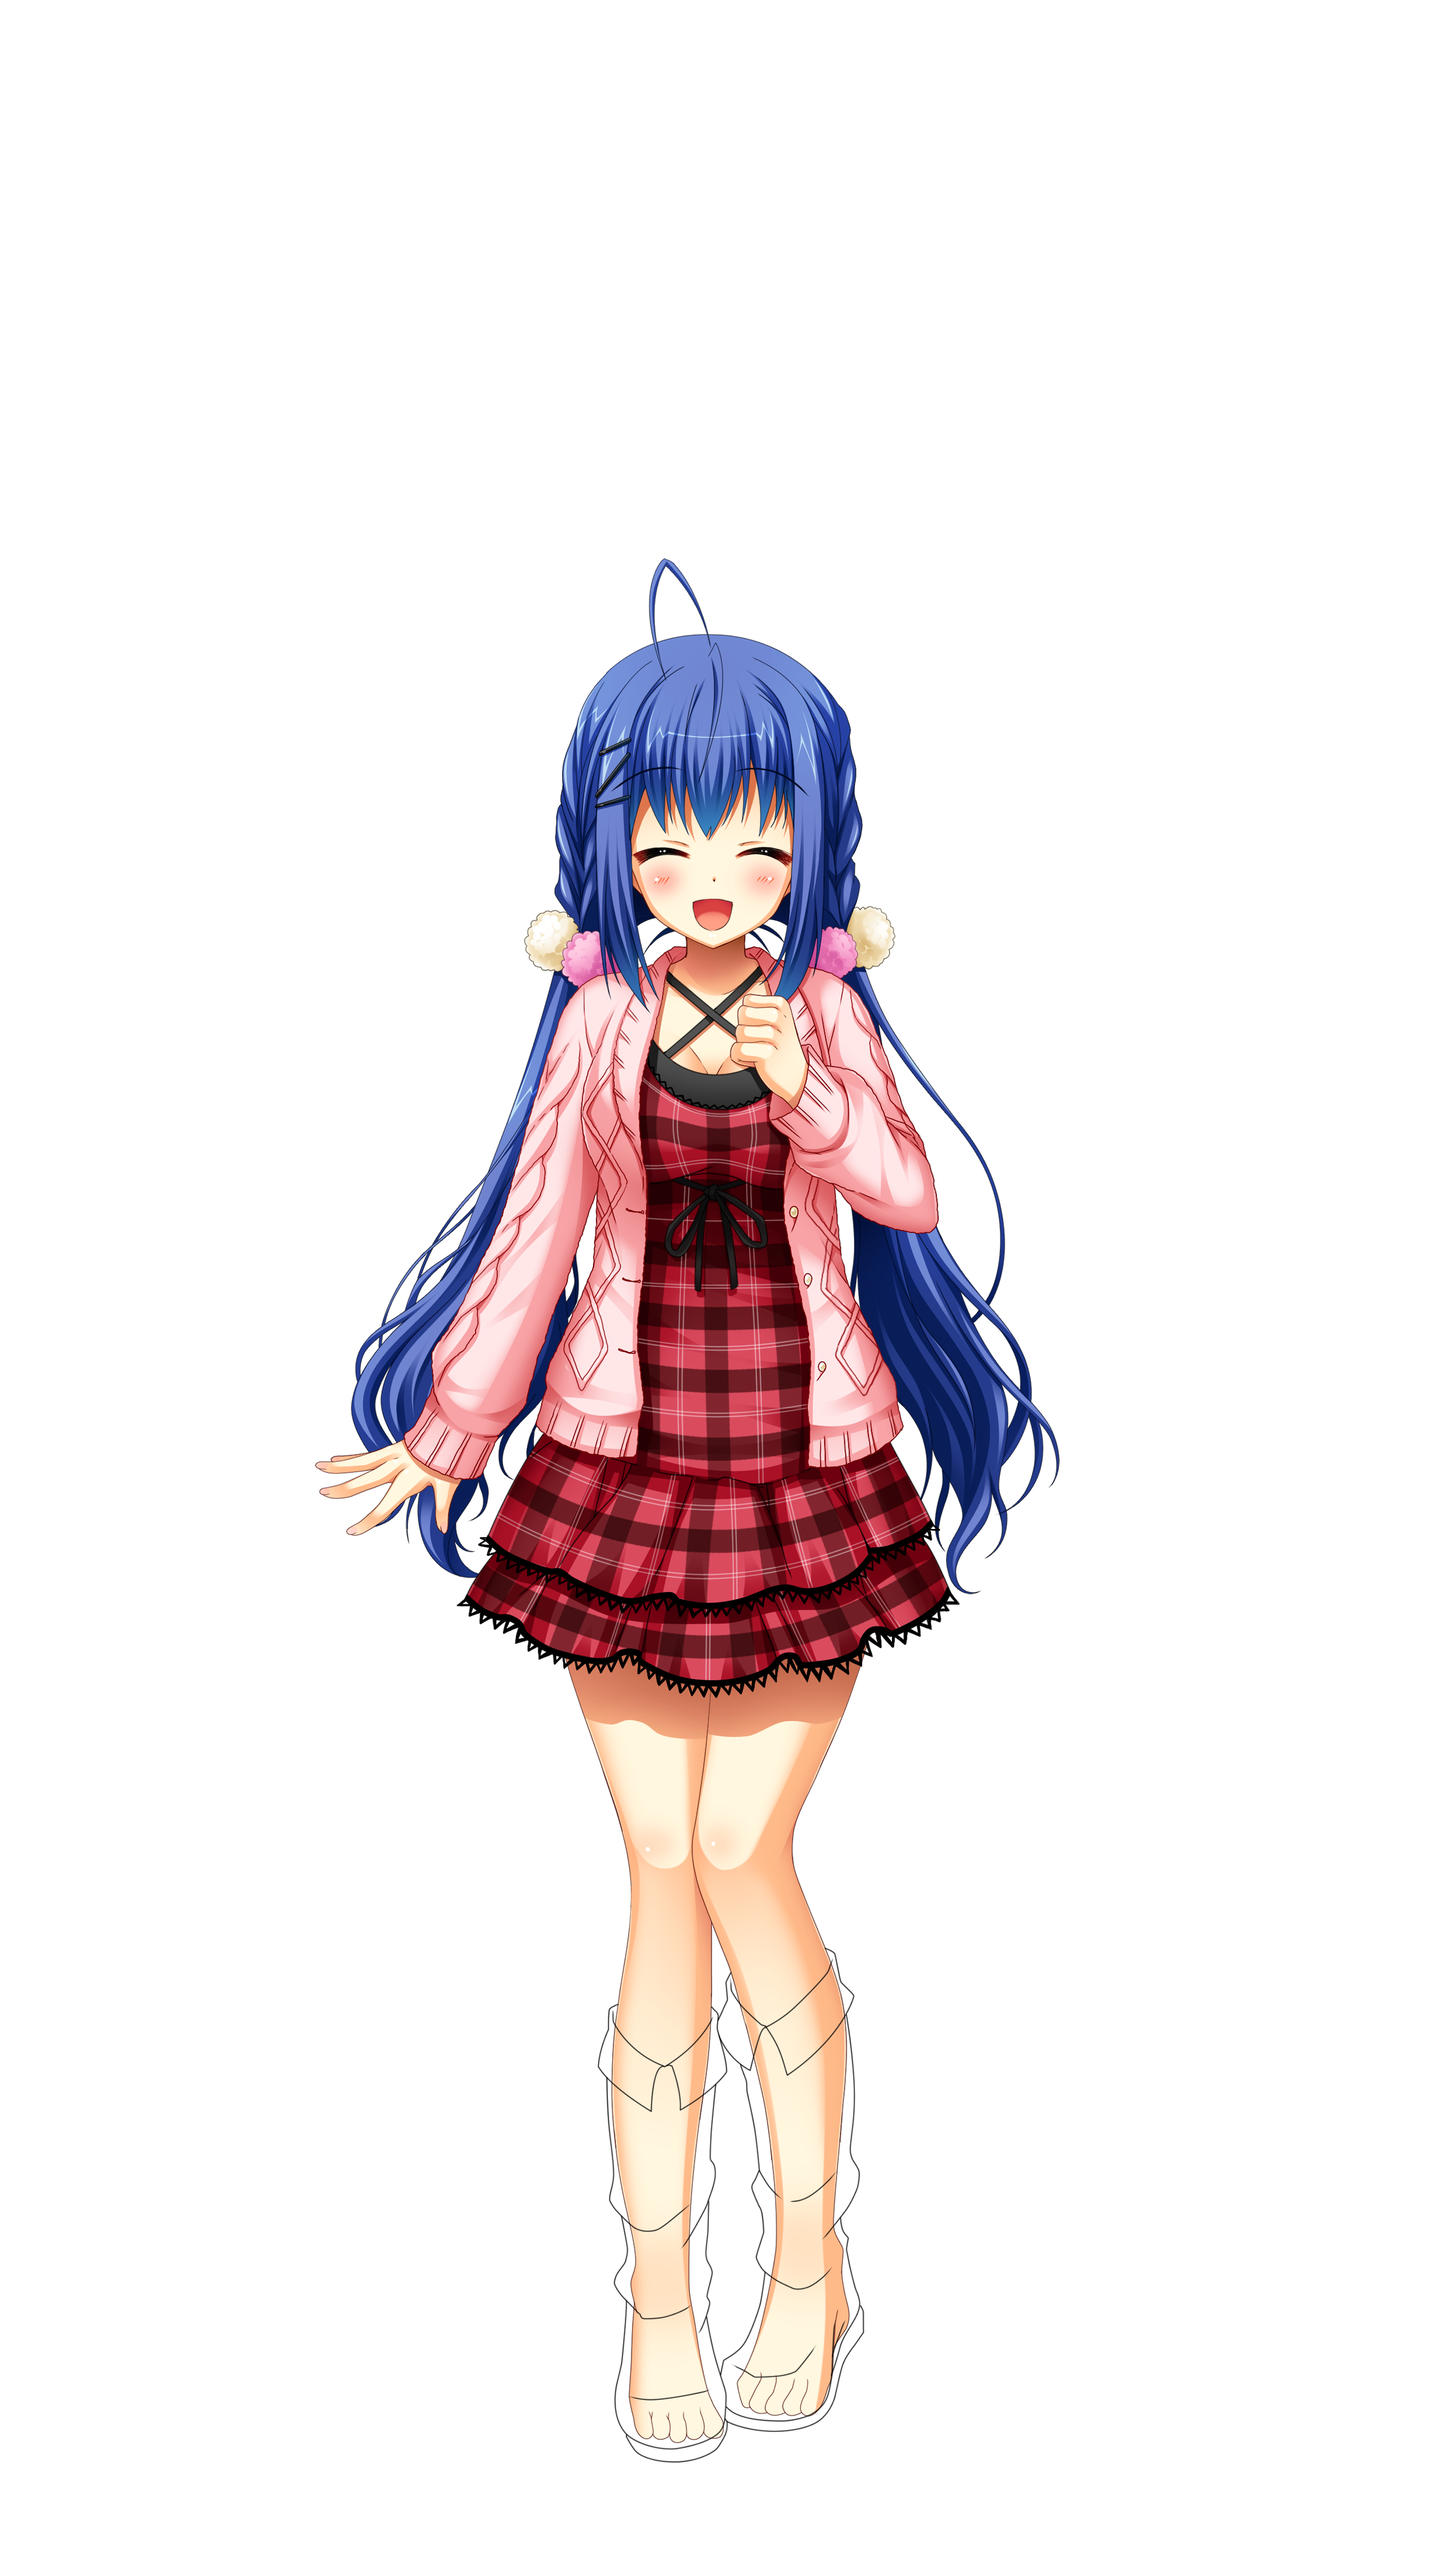
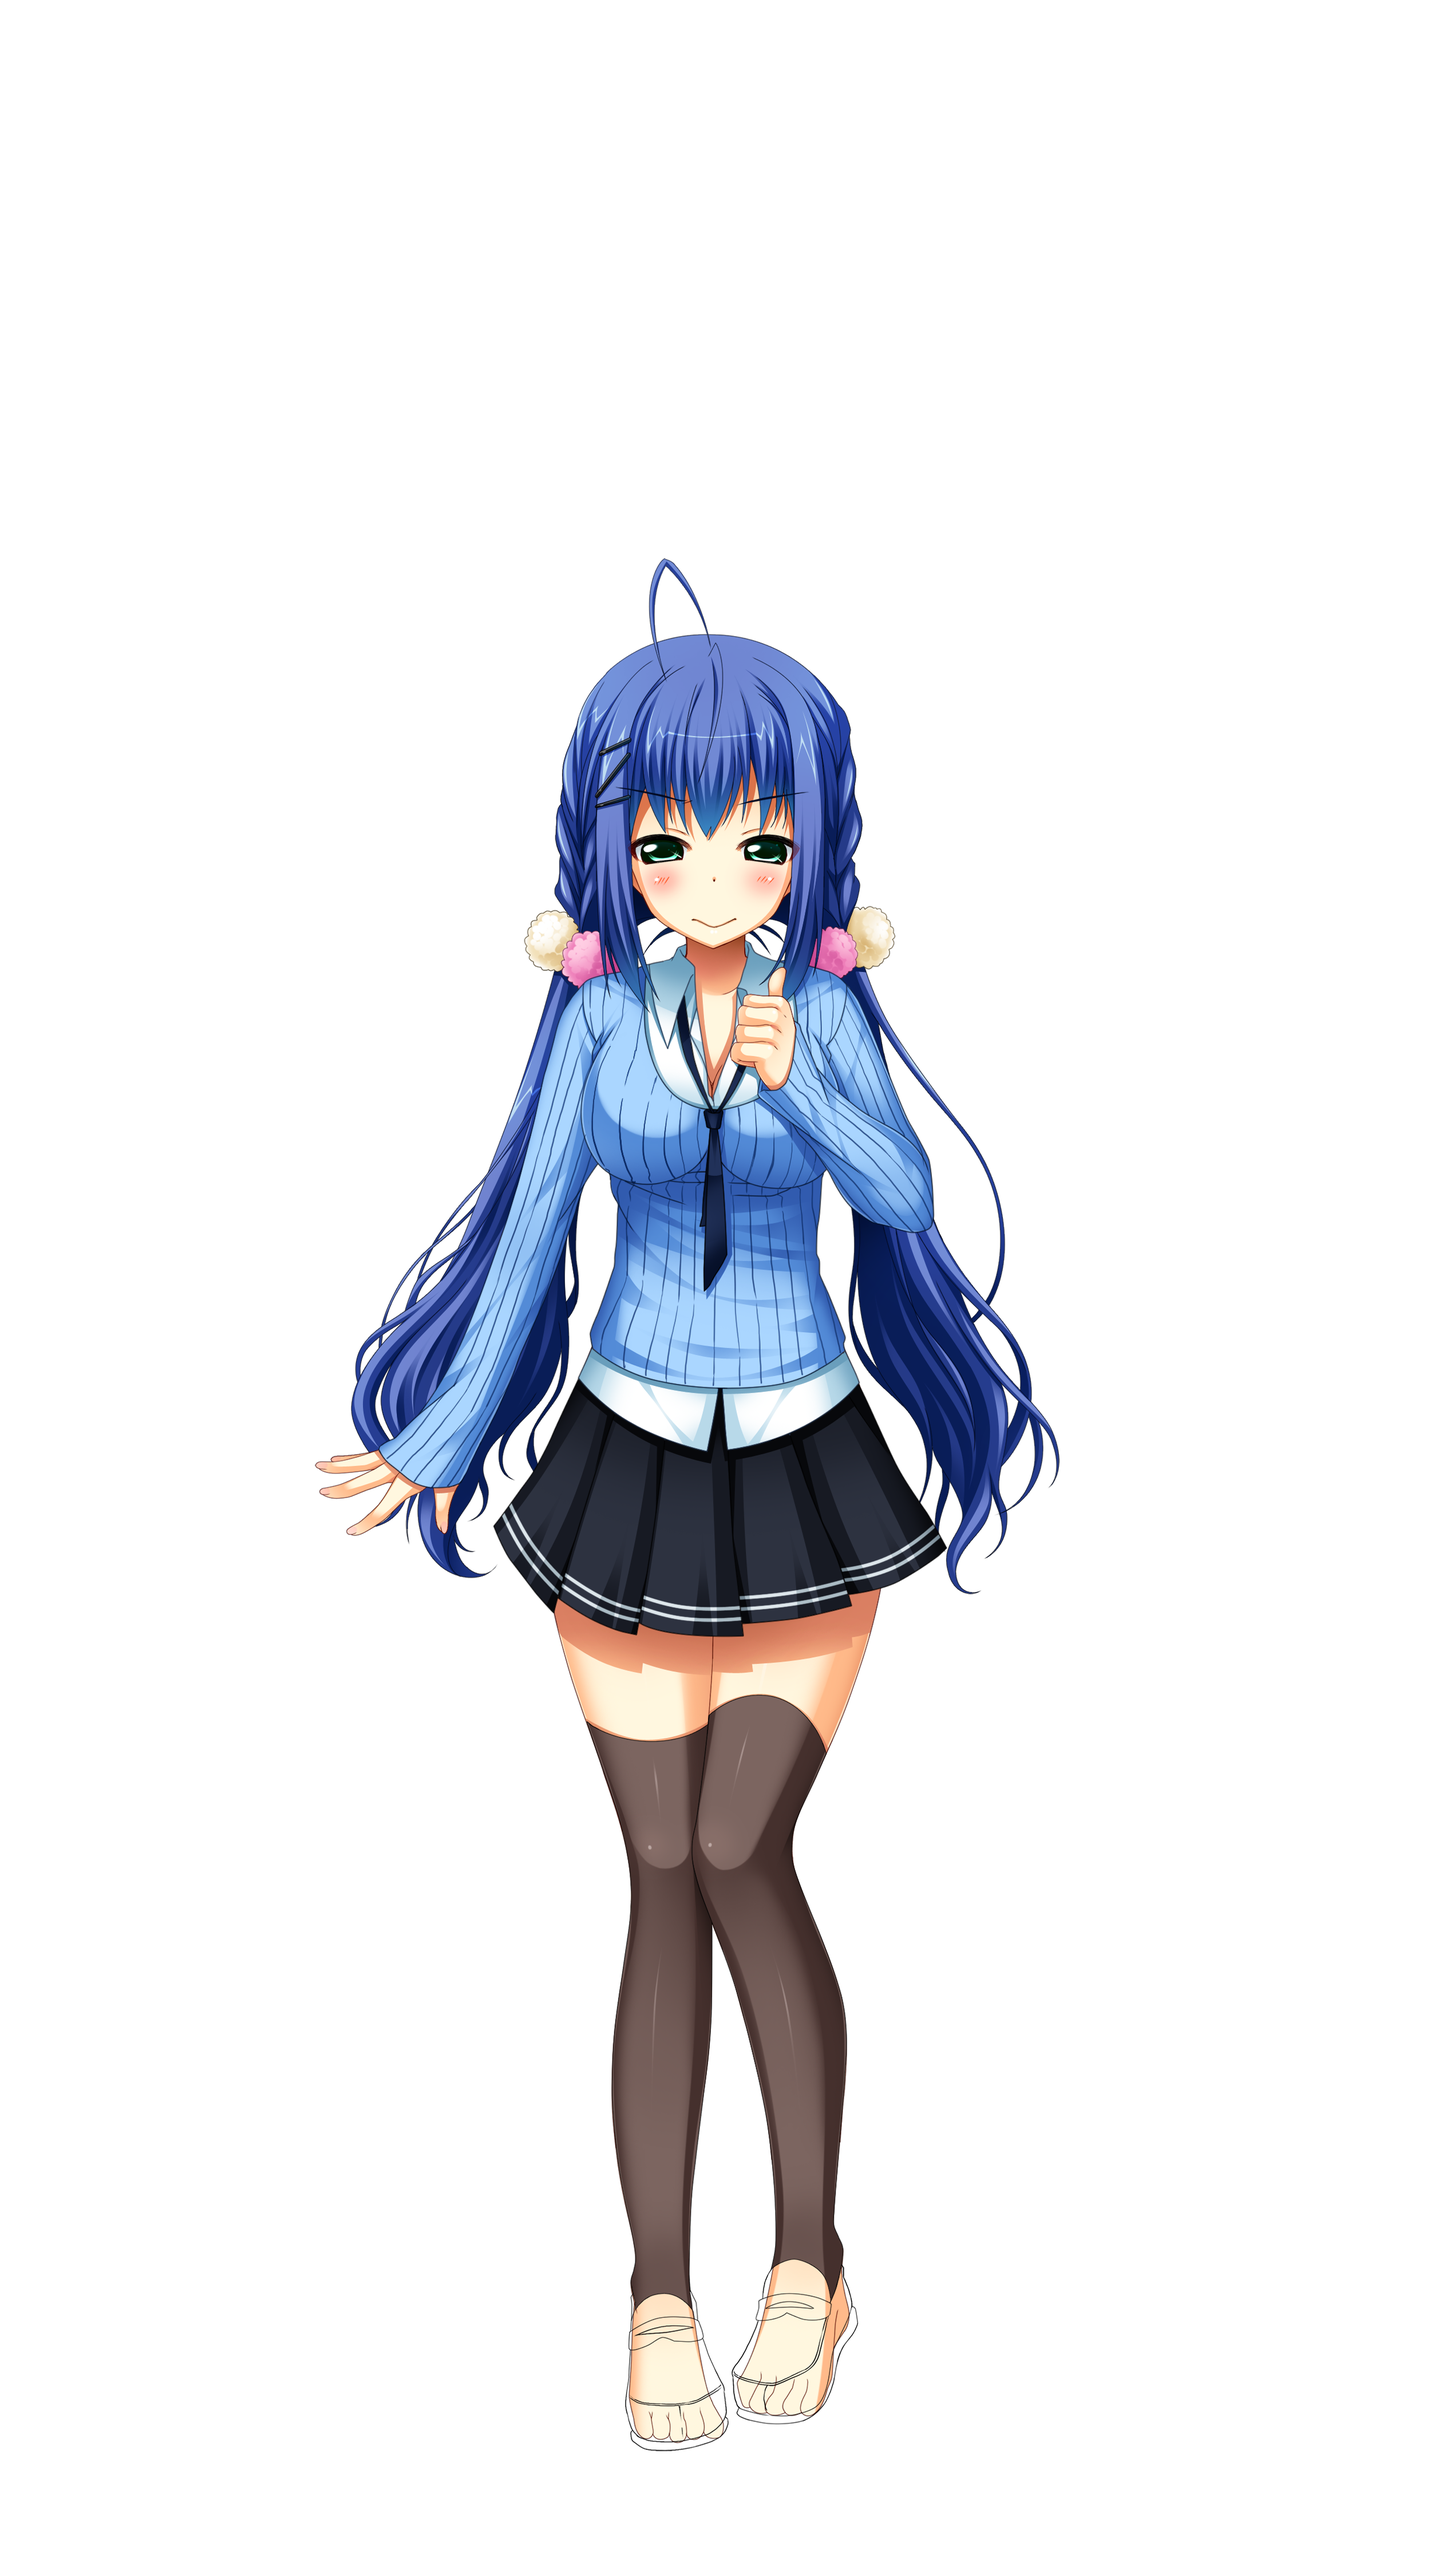
feat: add bg

Changed region(s): [[0.2496, 0.3111, 0.6864, 0.9644]]

diff --git a/main.py b/main.py
@@ -1,31 +1,52 @@
-import io
-from PIL import Image
-import random
 import requests
+from PIL import Image
+from io import BytesIO
+from dotenv import load_dotenv
+import os
+import composite_kokoron
+import composite_aisa
 
-# 输入路径
-bodyArray = [1,10,11,12,13,15,17,18,19,2,20,21,23,3,4,5,7,9]
-faceArray = list(range(1, 31))  # [1, 2, 3, ..., 30]
+load_dotenv()  # 从 .env 文件加载环境变量
 
-# 随机选择一个 body 和 face 数字
-body_id = random.choice(bodyArray)
-face_id = random.choice(faceArray)
+def paste_foreground(background, foreground, scale=1.0, offset=(0, 0)):
+    """
+    将前景图缩放后，按居中+偏移的位置合成到背景图上。
 
-BODY_PATH = f"stb1_s0_1_{body_id}.png"
-FACE_PATH = f"st1_s0_1_{face_id}.png"
+    :param background: PIL.Image 背景图（RGBA模式）
+    :param foreground: PIL.Image 前景图（RGBA模式）
+    :param scale: float 缩放比例，如0.5表示缩小到一半
+    :param offset: tuple (x, y) 偏移量，基于居中位置的偏移
+    """
+    # 缩放前景图
+    new_size = (int(foreground.width * scale), int(foreground.height * scale))
+    fg_resized = foreground.resize(new_size, Image.LANCZOS)
 
-CDN_BASE = "https://cdn.jsdelivr.net/gh/xxfttkx/image-hosting/kokoron"
-body_url = f"{CDN_BASE}/{BODY_PATH}"
-face_url = f"{CDN_BASE}/{FACE_PATH}"
+    # 计算贴图位置（居中+偏移）
+    x = (background.width - fg_resized.width) // 2 + offset[0]
+    y = (background.height - fg_resized.height) // 2 + offset[1]
 
-# 下载图片并打开
-body = Image.open(io.BytesIO(requests.get(body_url).content)).convert("RGBA")
-face = Image.open(io.BytesIO(requests.get(face_url).content)).convert("RGBA")
+    # 贴图
+    background.paste(fg_resized, (x, y), fg_resized)
 
-tmp = Image.new("RGBA", body.size, (0, 0, 0, 0))
-tmp.paste(face)
-result = Image.alpha_composite(body,tmp)
-result.show()
-# 保存结果
-result.save("composite.png")
-print("✅ 合成完成：composite.png")
+def main():
+    # 步骤 1: 下载背景图
+    bg_url = os.getenv("BG_URL")
+    response = requests.get(bg_url)
+    background = Image.open(BytesIO(response.content)).convert("RGBA")
+
+    # 步骤 2: 加载人物图像（当前目录下的 composite_aisa.png）
+    foreground_0 = Image.open('composite_kokoron.png').convert("RGBA")
+    foreground_1 = Image.open('composite_aisa.png').convert("RGBA")
+
+    paste_foreground(background, foreground_0, scale=0.4, offset=(-300, background.height//4+200))
+    paste_foreground(background, foreground_1, scale=0.5, offset=(300, background.height//4))
+
+
+    # 步骤 5: 保存或显示结果
+    background.save("result.png")
+    background.show()
+
+if __name__ == "__main__":
+    composite_kokoron.main()
+    composite_aisa.main()
+    main()

diff --git a/composite_kokoron.py b/composite_kokoron.py
@@ -1,0 +1,35 @@
+import io
+from PIL import Image
+import random
+import requests
+
+def main():
+    # 输入路径
+    bodyArray = [1,10,11,12,13,15,17,18,19,2,20,21,23,3,4,5,7,9]
+    faceArray = list(range(1, 31))  # [1, 2, 3, ..., 30]
+
+    # 随机选择一个 body 和 face 数字
+    body_id = random.choice(bodyArray)
+    face_id = random.choice(faceArray)
+
+    BODY_PATH = f"stb1_s0_1_{body_id}.png"
+    FACE_PATH = f"st1_s0_1_{face_id}.png"
+
+    CDN_BASE = "https://cdn.jsdelivr.net/gh/xxfttkx/image-hosting/kokoron"
+    body_url = f"{CDN_BASE}/{BODY_PATH}"
+    face_url = f"{CDN_BASE}/{FACE_PATH}"
+
+    # 下载图片并打开
+    body = Image.open(io.BytesIO(requests.get(body_url).content)).convert("RGBA")
+    face = Image.open(io.BytesIO(requests.get(face_url).content)).convert("RGBA")
+
+    tmp = Image.new("RGBA", body.size, (0, 0, 0, 0))
+    tmp.paste(face)
+    result = Image.alpha_composite(body,tmp)
+    # result.show()
+    # 保存结果
+    result.save("composite_kokoron.png")
+    print("✅ 合成完成：composite_kokoron.png")
+
+if __name__ == "__main__":
+    main()

diff --git a/composite_aisa.py b/composite_aisa.py
@@ -26,6 +26,7 @@ def main():
     body_id = random.choice(bodyArray)
     if body_id == 9:
         CDN_BASE = "https://cdn.jsdelivr.net/gh/xxfttkx/image-hosting/aisa"
+        BODY_PATH = f"ft藍咲_{body_id}a.png"
         body_url = f"{CDN_BASE}/{BODY_PATH}"
         body = Image.open(io.BytesIO(requests.get(body_url).content)).convert("RGBA")
         body.save("composite_aisa.png")

diff --git a/README.md b/README.md
@@ -1,5 +1,3 @@
 # image-composite
 
-![喵喵喵](composite.png)
-
-![喵喵喵](composite_aisa.png)
+![喵喵喵](result.png)
